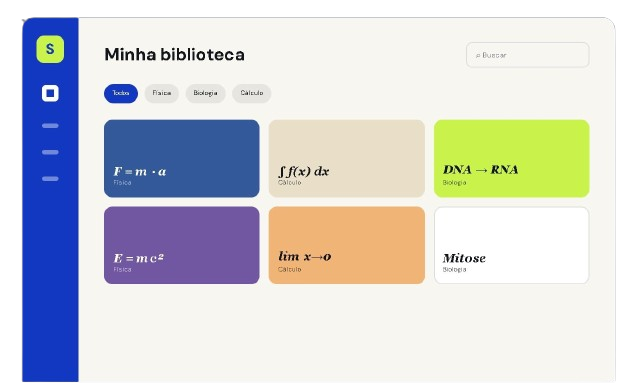
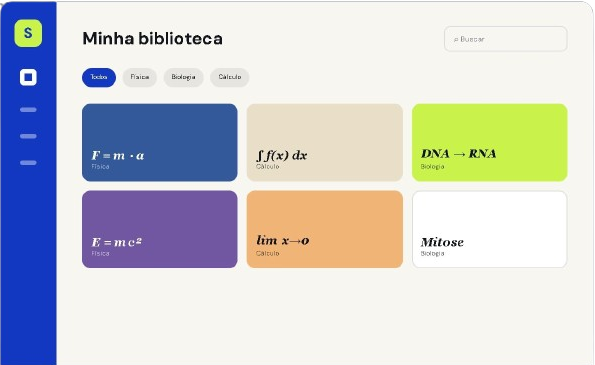
fix: correcao da seção de galeria

Changed region(s): [[0.0, 0.0, 0.9681, 1.0], [0.7563, 0.0904, 0.8168, 0.1507], [0.363, 0.1808, 0.4235, 0.2411]]

diff --git a/styles/style.css b/styles/style.css
@@ -51,6 +51,8 @@ a {
 
     --bg-medium-grey: rgb(73, 73, 73);
 
+    --bg-medium-black: #20232A;
+
     --bg-orange: #ffaf03;
 
     --bg-light-grey: #ccc;
@@ -964,10 +966,21 @@ button {
     grid-template-columns: repeat(2, 1fr);
     gap: var(--p-15);
     width: 100%;
+    padding: var(--p-20) var(--p-100);
 
-    div:last-child {
+    .image-border {
         border-radius: var(--p-15);
-        background-color: var(--bg-medium-grey);
+        background-color: var(--bg-medium-black);
+        border: var(--p-border) solid var(--bg-medium-grey);
+        display: flex;
+        flex-direction: column;
+        justify-content: center;
+        align-items: center;
+        position: relative;
+
+        img {
+            max-width: 90%;
+        }
     }
 
     div:first-child {
@@ -975,20 +988,65 @@ button {
         grid-template-rows: repeat(2, 1fr);
         gap: var(--p-15);
 
-        div {
+        .image-border {
             border-radius: var(--p-15);
-            background-color: var(--bg-medium-grey);
+            background-color: var(--bg-medium-black);
+            border: var(--p-border) solid var(--bg-medium-grey);
             display: flex;
+            flex-direction: column;
             justify-content: center;
             align-items: center;
         }
     }
 }
 
+.images-subtitles {
+    background: linear-gradient(transparent, rgba(0, 0, 0, 1) 35%);
+    display: flex;
+    padding: var(--p-20);
+    position: absolute;
+    width: 100%;
+    bottom: 0;
+    left: 0;
+    bottom: 0;
+    border-radius: 0 0 var(--p-15) var(--p-15);
+    gap: var(--p-30);
+
+    div {
+        display: flex;
+        flex-direction: column;
+        align-items: start;
+        justify-content: center;
+
+        h2 {
+            color: var(--bg-white);
+            font-size: var(--p-14);
+            font-weight: bold;
+        }
+
+        p {
+            color: var(--bg-grey);
+            font-weight: bold;
+            font-size: calc(var(--p-10) + var(--p-border));
+        }
+    }
+}
+
+.number {
+    color: var(--lime);
+    font-size: var(--p-15);
+}
+
 .galery2-section {
     display: grid;
     grid-template-columns: repeat(2, 1fr);
     background: var(--bg-light-blue);
+    gap: var(--p-20);
+
+    div {
+        gap: var(--p-15);
+        text-align: end;
+    }
 }
 
 .galery2-phrase {
@@ -999,7 +1057,8 @@ button {
 
     h2 {
         color: var(--bg-white);
-        font-size: calc(var(--p-80) - var(--p-20));
+        font-size: clamp(var(--p-50), 5vw + var(--p-15), calc(var(--p-80) - var(--p-10)));
+        text-align: start;
 
         .differ-font {
             color: var(--lime);
@@ -1164,7 +1223,6 @@ form {
     }
 }
 
-/* Equipe */
 .team-section {
     display: block;
     padding-block: var(--p-80);
@@ -1180,7 +1238,7 @@ form {
 
 .section-label,
 .contact-label {
-    font-size: 11px;
+    font-size: var(--p-10);
     letter-spacing: var(--p-2);
     margin-bottom: var(--p-15);
 }
@@ -1188,7 +1246,7 @@ form {
 .section-label span,
 .contact-label span {
     display: inline-block;
-    width: 25px;
+    width: var(--p-20);
     height: var(--p-2);
     margin-right: var(--p-8);
     background: currentColor;
@@ -1371,10 +1429,27 @@ form {
     background: var(--bg-little-white);
 }
 
-@media(max-width: 1199px) {
+@media(max-width: 1450px) {
+    .galery-images {
+        padding: var(--p-20) var(--p-border);
+    }
+}
 
+@media(max-width: 1250px) {
     section {
         padding-inline: var(--p-30);
+    }
+}
+
+@media(max-width: 1199px) {
+
+    .galery-images {
+        grid-template-columns: 1fr;
+
+        img {
+            margin-bottom: var(--p-50);
+            margin-top: var(--p-15);
+        }
     }
 
     .btn-header {
@@ -1551,6 +1626,23 @@ form {
 
     .public-section {
         grid-template-columns: 1fr;
+        gap: var(--p-border);
+    }
+
+    .public-people{
+        gap: var(--p-10);
+        height: 100%;
+    }
+
+    .galery2-section {
+        grid-template-columns: 1fr;
+    }
+
+    .galery2-content {
+        div {
+            flex-direction: column;
+            text-align: start;
+        }
     }
 }
 
@@ -1678,7 +1770,7 @@ form {
 @media(max-width: 500px) {
 
     section {
-        padding-inline: var(--p-10);
+        padding-inline: var(--p-20);
     }
 
     .title {

diff --git a/index.html b/index.html
@@ -38,11 +38,11 @@
                     </a>
                 </div>
                 <ul class="nav-hero-menu">
-                    <li><a href="#top"><span class="number">01</span> A Solução</a></li>
-                    <li><a href="#publico"><span class="number">02</span> Público-alvo</a></li>
-                    <li><a href="#galeria"><span class="number">03</span> Galeria</a></li>
-                    <li><a href="#equipe"><span class="number">04</span> Nossa Equipe</a></li>
-                    <li><a href="#contact"><span class="number">05</span> Contato</a></li>
+                    <li><a href="#top">A Solução</a></li>
+                    <li><a href="#publico">Público-alvo</a></li>
+                    <li><a href="#galeria">Galeria</a></li>
+                    <li><a href="#equipe">Nossa Equipe</a></li>
+                    <li><a href="#contact">Contato</a></li>
                 </ul>
             </div>
         </header>
@@ -392,15 +392,36 @@
 
         <div class="galery-images">
             <div>
-                <div>
+                <div class="image-border">
                     <img src="images/galery/desktop.png" alt="">
+                    <div class="images-subtitles">
+                        <p class="number">01</p>
+                        <div>
+                            <h2>Biblioteca Visual</h2>
+                            <p>Tudo organizado por matérias e contexto.</p>
+                        </div>
+                    </div>
                 </div>
-                <div>
+                <div class="image-border">
                     <img src="images/galery/half.png" alt="">
+                    <div class="images-subtitles">
+                        <p class="number">02</p>
+                        <div>
+                            <h2>Captura Guiada</h2>
+                            <p>Um bom registro desde o primeiro clique.</p>
+                        </div>
+                    </div>
                 </div>
             </div>
-            <div>
-                <img src="images/galery/cellPhone.jpeg" alt="">
+            <div class="image-border">
+                <img src="images/galery/cellPhone.png" alt="">
+                <div class="images-subtitles">
+                    <p class="number">03</p>
+                    <div>
+                        <h2>Lembretes Úteis</h2>
+                        <p>O conteúdo certo, na hora certa.</p>
+                    </div>
+                </div>
             </div>
         </div>
 
